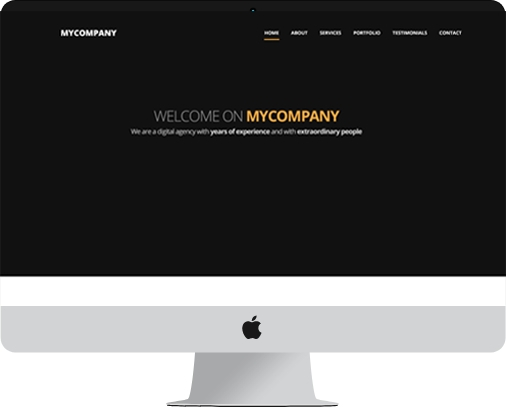
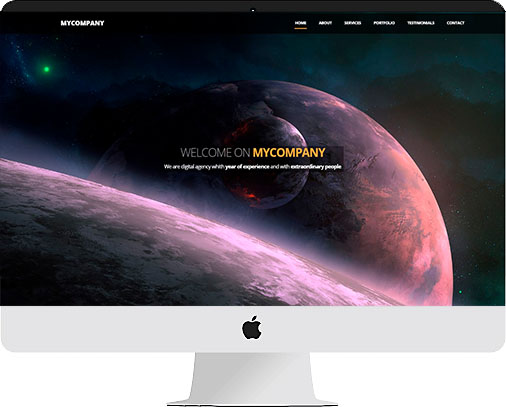
start home

diff --git a/css/style.css b/css/style.css
@@ -3,6 +3,13 @@ body {
     color: #fff;
 }
 
+section {
+    height: 100vh;
+    display: grid;
+    align-items: center;
+    justify-content: center;
+}
+
 /* ----------------- HEADER ------------------ */
 
 header {
@@ -45,21 +52,19 @@ nav {
     display: none;
 }
 
+/*********************************************/
 /* ----------------- HOME ------------------ */
+/*********************************************/
 
 .home {
-    height: 100vh;
     background: url('../img/kosmos-min.jpg') top center;
-    display: grid;
-    align-items: center;
-    justify-content: center;
+    
 }
 .home__block {
     text-align: center;
     background: rgba(0, 0, 0, 0.4);
     padding: 0 10px 10px;
 }
-
 .home__block h1 {
     color: #999999;
     font-size: 44px;
@@ -68,17 +73,88 @@ nav {
     letter-spacing: -2.2px;
     margin-bottom: 20px;
 }
-
 .home__block h1 span {
     color: #fcac45;
     font-weight: 700;
 }
-
 .home__block p {
     font-size: 20px;
     letter-spacing: -1px;
 }
-
 .home__block p span {
     font-weight: 700;
+}
+
+/*********************************************/
+/* ----------------- HOME ------------------ */
+/*********************************************/
+
+.about {
+    background: rgba(0, 0, 0, 0.1);
+    background-image: url(../img/about-bg.jpg);
+    background-position: top center;
+    background-size: cover;
+}
+
+.about__block {
+    display: flex;
+    grid-gap: 60px;
+}
+
+.about__img {
+    grid-area: img;
+    margin-right: 18.8%;
+}
+
+.about__content {
+    grid-area: content;
+    min-width: 402px;
+    max-width: 405px;
+}
+
+.about__content h1 {
+    color: #222222;
+    font-size: 34px;
+    text-transform: uppercase;
+    border-bottom: 4px solid #fcac45;
+    padding-bottom: 20px;
+    margin-bottom: 30px;
+}
+
+.about__content h1 span {
+    font-weight: 700;
+    letter-spacing: -0.68px;
+}
+
+.about__content p {
+    color: #6c6c6c;
+    font-size: 18px;
+    line-height: 25px;
+    letter-spacing: -0.72px;
+    margin-bottom: 45px;
+}
+
+.about__content_list {
+    padding-left: 25px;
+    color: #5a5a5a;
+    font-size: 16px;
+    font-style: italic;
+    letter-spacing: -0.18px;
+}
+
+.about__content_list li {
+    margin-bottom: 16px;
+    position: relative;
+}
+
+.about__content_list li::before {
+    content: '';
+    display: block;
+    position: absolute;
+    
+}
+
+.about__content_list span {
+    font-weight: 600;
+    font-style: normal;
 }

diff --git a/index.html b/index.html
@@ -27,10 +27,26 @@
             </div>
         </nav>
     </header>
-    <section id="home" class="home">
+    
+    <section id="home" class="home section">
         <div class="home__block">
             <h1>Welcome on <span>mycompany</span></h1>
             <p>We are digital agency whith <span>year of experience</span> and with <span>extraordinary people</span></p>
+        </div>
+    </section>
+
+    <section id="about" class="section about">
+        <div class="about__block">
+            <img class="about__img" src="img/mac.jpg" alt="mac">
+            <div class="about__content">
+                <h1>Some words <span>about us</span></h1>
+                <p>Lorem ipsum dolor sit amet, consectetur adipisicing elit. Doloribus ex quidem maiores ullam quis, at asperiores minus ad eaque maxime possimus .</p>
+                <ul class="about__content_list">
+                    <li><span>Mission -</span> We deliver uniqueness and quality</li>
+                    <li><span>Skills -</span> Delivering fast and excellent results</li>
+                    <li><span>Clients -</span> Satisfied clients thanks to our experience</li>
+                </ul>
+            </div>
         </div>
     </section>
 
